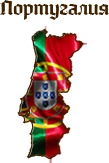
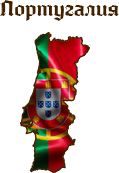
Финалка

Changed region(s): [[0.1376, 0.1534, 0.7982, 1.0], [0.0, 0.0, 1.0, 0.1227]]

diff --git a/888/css/styles.min.css b/888/css/styles.min.css
@@ -1,2 +1,2 @@
-:-webkit-input-placeholder{color:#667;opacity:1}:-moz-placeholder{color:#667;opacity:1}::-moz-placeholder{color:#667;opacity:1}:-ms-input-placeholder{color:#667;opacity:1}html{overflow:hidden}body{font-family:Arial}.btn{width:320px;max-width:90%;height:68px;text-transform:uppercase;border:none;background:0 0}.main-screen{background-image:url(img/main_bg.jpg);display:flex;align-items:center;justify-content:center}.kart{width:868px;height:700px;margin:0 auto;padding-top:44px;background-position:center center;background-image:url(img/bg.png)}.row{display:flex;align-items:center;justify-content:center}.row div{margin:0 15px}.six{margin-bottom:-22px}.ger{background-image:url(img/ger.png);background-repeat:no-repeat;background-position:center;width:113px;height:166px}.ger:hover{cursor:pointer;background-image:url(img/ger-.png);background-position:4px 1px}.ger_deg{-webkit-transform:rotate(-45deg);transform:rotate(-45deg)}.ru{background-image:url(img/ru.png);background-repeat:no-repeat;background-position:center;width:224px;height:157px}.ru:hover{cursor:pointer;background-image:url(img/ru-.png)}.yap{background-image:url(img/yap.png);background-repeat:no-repeat;background-position:center;width:171px;height:175px}.yap:hover{cursor:pointer;background-image:url(img/yap-.png)}.yap_deg{-webkit-transform:rotate(45deg);transform:rotate(45deg)}.por{background-image:url(img/por.png);background-repeat:no-repeat;background-position:center;width:139px;height:193px}.por:hover{cursor:pointer;background-image:url(img/por-.png)}.por_deg{-webkit-transform:rotate(-90deg);transform:rotate(-90deg)}.chi{background-image:url(img/chi.png);background-repeat:no-repeat;background-position:center;width:205px;height:168px}.chi:hover{cursor:pointer;background-image:url(img/chi-.png)}.chi_deg{-webkit-transform:rotate(90deg);transform:rotate(90deg)}.iz{background-image:url(img/iz.png);background-repeat:no-repeat;background-position:center;width:155px;height:175px}.iz:hover{cursor:pointer;background-image:url(img/iz-.png)}.iz_deg{-webkit-transform:rotate(-135deg);transform:rotate(-135deg)}.ben{background-image:url(img/ben.png);background-repeat:no-repeat;background-position:center;width:169px;height:159px}.ben:hover{cursor:pointer;background-image:url(img/ben-.png)}.ben_deg{-webkit-transform:rotate(180deg);transform:rotate(180deg)}.tay{background-image:url(img/tay.png);background-repeat:no-repeat;background-position:center;width:148px;height:198px}.tay:hover{cursor:pointer;background-image:url(img/tay-.png)}.tay_deg{-webkit-transform:rotate(135deg);transform:rotate(135deg)}.compas{width:150px;height:153px;display:flex;align-items:center;justify-content:center;background-repeat:no-repeat;background-image:url(img/compas.png)}.compas img{margin:0 0 0 12px}.strel{transition:all .5s}.modal{top:50%;margin-top:-190px;position:fixed;width:640px;height:380px;left:50%;margin-left:-300px;background-color:#fff;border-radius:5px;padding:30px;display:none;z-index:999}.modal h2{text-align:center}.modal-thank{top:50%;margin-top:-190px;position:fixed;width:640px;height:380px;left:50%;margin-left:-300px;background-color:#fff;border-radius:5px;padding:10px;display:none;z-index:999}.modal-thank h2{text-align:center}.modal-wisible{display:block;-webkit-animation:animate .5s;animation:animate .5s}.overlay{z-index:10;position:fixed;background-color:#000;opacity:.8;width:100%;height:100%;top:0;left:0;cursor:pointer;display:none}.close-link{z-index:2;display:block;width:26px;height:26px;background:#fff;border-radius:50%;box-shadow:1px 1px 10px rgba(0,0,0,.4);position:absolute;top:4px;right:4px;padding:0 0 0 9px;font-size:18px;text-decoration:none;cursor:pointer}.close-link:hover{text-decoration:none}@-webkit-keyframes animate{0%{-webkit-transform:translateY(-2000px);transform:translateY(-2000px)}70%{-webkit-transform:translateY(30px);transform:translateY(30px)}90%{-webkit-transform:translateY(-10px);transform:translateY(-10px)}100%{-webkit-transform:translateY(0);transform:translateY(0)}}@keyframes animate{0%{-webkit-transform:translateY(-2000px);transform:translateY(-2000px)}70%{-webkit-transform:translateY(30px);transform:translateY(30px)}90%{-webkit-transform:translateY(-10px);transform:translateY(-10px)}100%{-webkit-transform:translateY(0);transform:translateY(0)}}
+:-webkit-input-placeholder{color:#667;opacity:1}:-moz-placeholder{color:#667;opacity:1}::-moz-placeholder{color:#667;opacity:1}:-ms-input-placeholder{color:#667;opacity:1}html{overflow:hidden}body{font-family:Arial}.btn{width:320px;max-width:90%;height:68px;text-transform:uppercase;border:none;background:0 0}.main-screen{background-image:url(img/main_bg.jpg);display:flex;align-items:center;justify-content:center}.kart{width:1229px;height:700px;margin:0 auto;padding-top:26px;background-position:center center;background-image:url(img/bg.png)}.row{display:flex;align-items:center}.six{display:block;margin:0 auto;margin-bottom:-98px;margin-top:-10px}.ger{background-image:url(img/ger.png);background-repeat:no-repeat;background-position:center;width:311px;height:264px;margin-left:254px;margin-top:12px}.ger:hover{cursor:pointer;background-image:url(img/ger-.png);background-position:53px 1px}.ger_deg{-webkit-transform:rotate(-45deg);transform:rotate(-45deg)}.ru{background-image:url(img/ru.png);background-repeat:no-repeat;background-position:center;width:311px;height:240px;margin-left:-92px;margin-top:-10px}.ru:hover{cursor:pointer;background-position:1px -1px;background-image:url(img/ru-.png)}.yap{background-image:url(img/yap.png);background-repeat:no-repeat;background-position:center;width:311px;height:251px;margin-left:-75px;margin-top:4px}.yap:hover{cursor:pointer;background-position:30px -1px;background-image:url(img/yap-.png)}.yap_deg{-webkit-transform:rotate(45deg);transform:rotate(45deg)}.por{background-image:url(img/por.png);background-repeat:no-repeat;background-position:center;width:311px;height:285px;margin-left:241px;margin-top:-89px}.por:hover{cursor:pointer;background-position:44px 1px;background-image:url(img/por-.png)}.por_deg{-webkit-transform:rotate(-90deg);transform:rotate(-90deg)}.chi{background-image:url(img/chi.png);background-repeat:no-repeat;background-position:center;width:311px;height:249px;margin-left:-9px;margin-top:-109px}.chi:hover{cursor:pointer;background-position:9px -3px;background-image:url(img/chi-.png)}.chi_deg{-webkit-transform:rotate(90deg);transform:rotate(90deg)}.iz{background-image:url(img/iz.png);background-repeat:no-repeat;background-position:center;width:311px;height:257px;margin-left:292px;margin-top:-100px}.iz:hover{cursor:pointer;background-position:32px -2px;background-image:url(img/iz-.png)}.iz_deg{-webkit-transform:rotate(-135deg);transform:rotate(-135deg)}.ben{background-image:url(img/ben.png);background-repeat:no-repeat;background-position:center;width:311px;height:243px;margin-left:-120px;margin-top:-106px}.ben:hover{cursor:pointer;background-position:28px 2px;background-image:url(img/ben-.png)}.ben_deg{-webkit-transform:rotate(180deg);transform:rotate(180deg)}.tay{background-image:url(img/tay.png);background-repeat:no-repeat;background-position:center;width:311px;height:275px;margin-left:-114px;margin-top:-122px}.tay:hover{cursor:pointer;background-position:39px 0;background-image:url(img/tay-.png)}.tay_deg{-webkit-transform:rotate(135deg);transform:rotate(135deg)}.compas{width:163px;height:166px;margin-top:-116px;margin-left:-6px;display:flex;align-items:center;justify-content:center;background-repeat:no-repeat;background-image:url(img/compas.png)}.compas img{margin:2px 0 0 11px}.strel{transition:all .5s}.modal{top:50%;margin-top:-190px;position:fixed;width:640px;height:380px;left:50%;margin-left:-300px;background-color:#fff;border-radius:5px;padding:30px;display:none;z-index:999}.modal h2{text-align:center}.modal-thank{top:50%;margin-top:-190px;position:fixed;width:640px;height:380px;left:50%;margin-left:-300px;background-color:#fff;border-radius:5px;padding:10px;display:none;z-index:999}.modal-thank h2{text-align:center}.modal-wisible{display:block;-webkit-animation:animate .5s;animation:animate .5s}.overlay{z-index:10;position:fixed;background-color:#000;opacity:.8;width:100%;height:100%;top:0;left:0;cursor:pointer;display:none}.close-link{z-index:2;display:block;width:26px;height:26px;background:#fff;border-radius:50%;box-shadow:1px 1px 10px rgba(0,0,0,.4);position:absolute;top:4px;right:4px;padding:0 0 0 9px;font-size:18px;text-decoration:none;cursor:pointer}.close-link:hover{text-decoration:none}@-webkit-keyframes animate{0%{-webkit-transform:translateY(-2000px);transform:translateY(-2000px)}70%{-webkit-transform:translateY(30px);transform:translateY(30px)}90%{-webkit-transform:translateY(-10px);transform:translateY(-10px)}100%{-webkit-transform:translateY(0);transform:translateY(0)}}@keyframes animate{0%{-webkit-transform:translateY(-2000px);transform:translateY(-2000px)}70%{-webkit-transform:translateY(30px);transform:translateY(30px)}90%{-webkit-transform:translateY(-10px);transform:translateY(-10px)}100%{-webkit-transform:translateY(0);transform:translateY(0)}}
 @media only screen and (max-width:768px){.animated{transition-property:none!important;-webkit-transform:none!important;transform:none!important;-webkit-animation:none!important;animation:none!important}.modal-callbak{margin-top:-155px;width:470px;height:310px;margin-left:-235px}.modal-thank{margin-top:-140px;width:316px;height:280px;margin-left:-158px;padding:5px}}@media only screen and (max-width:480px){.modal-callbak{margin-top:-160px;width:320px;height:320px;margin-left:-160px}.modal-thank{margin-top:-160px;width:320px;height:320px;margin-left:-160px}}

diff --git a/888/less/main.less b/888/less/main.less
@@ -50,10 +50,10 @@ header {}
 }
 
 .kart {
-  width: 868px;
+  width: 1229px;
   height: 700px;
   margin: 0 auto;
-  padding-top: 44px;
+  padding-top: 26px;
   background-position: center center;
   background-image: url(img/bg.png);
 }
@@ -61,26 +61,27 @@ header {}
 .row {
   display: flex;
   align-items: center;
-  justify-content: center;
-  div {
-    margin: 0px 15px;
-  }
 }
 
 .six {
-  margin-bottom: -22px;
+  display: block;
+  margin: 0 auto;
+  margin-bottom: -98px;
+  margin-top: -10px;
 }
 
 .ger {
   background-image: url(img/ger.png);
   background-repeat: no-repeat;
   background-position: center;
-  width: 113px;
-  height: 166px;
+  width: 311px;
+  height: 264px;
+  margin-left: 254px;
+  margin-top: 12px;
   &:hover {
     cursor: pointer;
     background-image: url(img/ger-.png);
-    background-position: 4px 1px;
+    background-position: 53px 1px;
   }
 }
 .ger_deg {
@@ -91,10 +92,13 @@ header {}
   background-image: url(img/ru.png);
   background-repeat: no-repeat;
   background-position: center;
-  width: 224px;
-  height: 157px;
+  width: 311px;
+  height: 240px;
+  margin-left: -92px;
+  margin-top: -10px;
   &:hover {
     cursor: pointer;
+    background-position: 1px -1px;
     background-image: url(img/ru-.png);
   }
 }
@@ -103,10 +107,13 @@ header {}
   background-image: url(img/yap.png);
   background-repeat: no-repeat;
   background-position: center;
-  width: 171px;
-  height: 175px;
+  width: 311px;
+  height: 251px;
+  margin-left: -75px;
+  margin-top: 4px;
   &:hover {
     cursor: pointer;
+    background-position: 30px -1px;
     background-image: url(img/yap-.png);
   }
 }
@@ -118,10 +125,13 @@ header {}
   background-image: url(img/por.png);
   background-repeat: no-repeat;
   background-position: center;
-  width: 139px;
-  height: 193px;
+  width: 311px;
+  height: 285px;
+  margin-left: 241px;
+  margin-top: -89px;
   &:hover {
     cursor: pointer;
+    background-position: 44px 1px;
     background-image: url(img/por-.png);
   }
 }
@@ -133,10 +143,13 @@ header {}
   background-image: url(img/chi.png);
   background-repeat: no-repeat;
   background-position: center;
-  width: 205px;
-  height: 168px;
+  width: 311px;
+  height: 249px;
+  margin-left: -9px;
+  margin-top: -109px;
   &:hover {
     cursor: pointer;
+    background-position: 9px -3px;
     background-image: url(img/chi-.png);
   }
 }
@@ -148,10 +161,13 @@ header {}
   background-image: url(img/iz.png);
   background-repeat: no-repeat;
   background-position: center;
-  width: 155px;
-  height: 175px;
+  width: 311px;
+  height: 257px;
+  margin-left: 292px;
+  margin-top: -100px;
   &:hover {
     cursor: pointer;
+    background-position: 32px -2px;
     background-image: url(img/iz-.png);
   }
 }
@@ -163,10 +179,13 @@ header {}
   background-image: url(img/ben.png);
   background-repeat: no-repeat;
   background-position: center;
-  width: 169px;
-  height: 159px;
+  width: 311px;
+  height: 243px;
+  margin-left: -120px;
+  margin-top: -106px;
   &:hover {
     cursor: pointer;
+    background-position: 28px 2px;
     background-image: url(img/ben-.png);
   }
 }
@@ -178,10 +197,13 @@ header {}
   background-image: url(img/tay.png);
   background-repeat: no-repeat;
   background-position: center;
-  width: 148px;
-  height: 198px;
+  width: 311px;
+  height: 275px;
+  margin-left: -114px;
+  margin-top: -122px;
   &:hover {
     cursor: pointer;
+    background-position: 39px 0px;
     background-image: url(img/tay-.png);
   }
 }
@@ -190,15 +212,17 @@ header {}
 }
 
 .compas {
-  width: 150px;
-  height: 153px;
+  width: 163px;
+  height: 166px;
+  margin-top: -116px;
+  margin-left: -6px;
   display: flex;
   align-items: center;
   justify-content: center;
   background-repeat: no-repeat;
   background-image: url(img/compas.png);
   img {
-    margin: 0 0 0 12px;
+    margin: 2px 0 0 11px;
   }
 }
 
